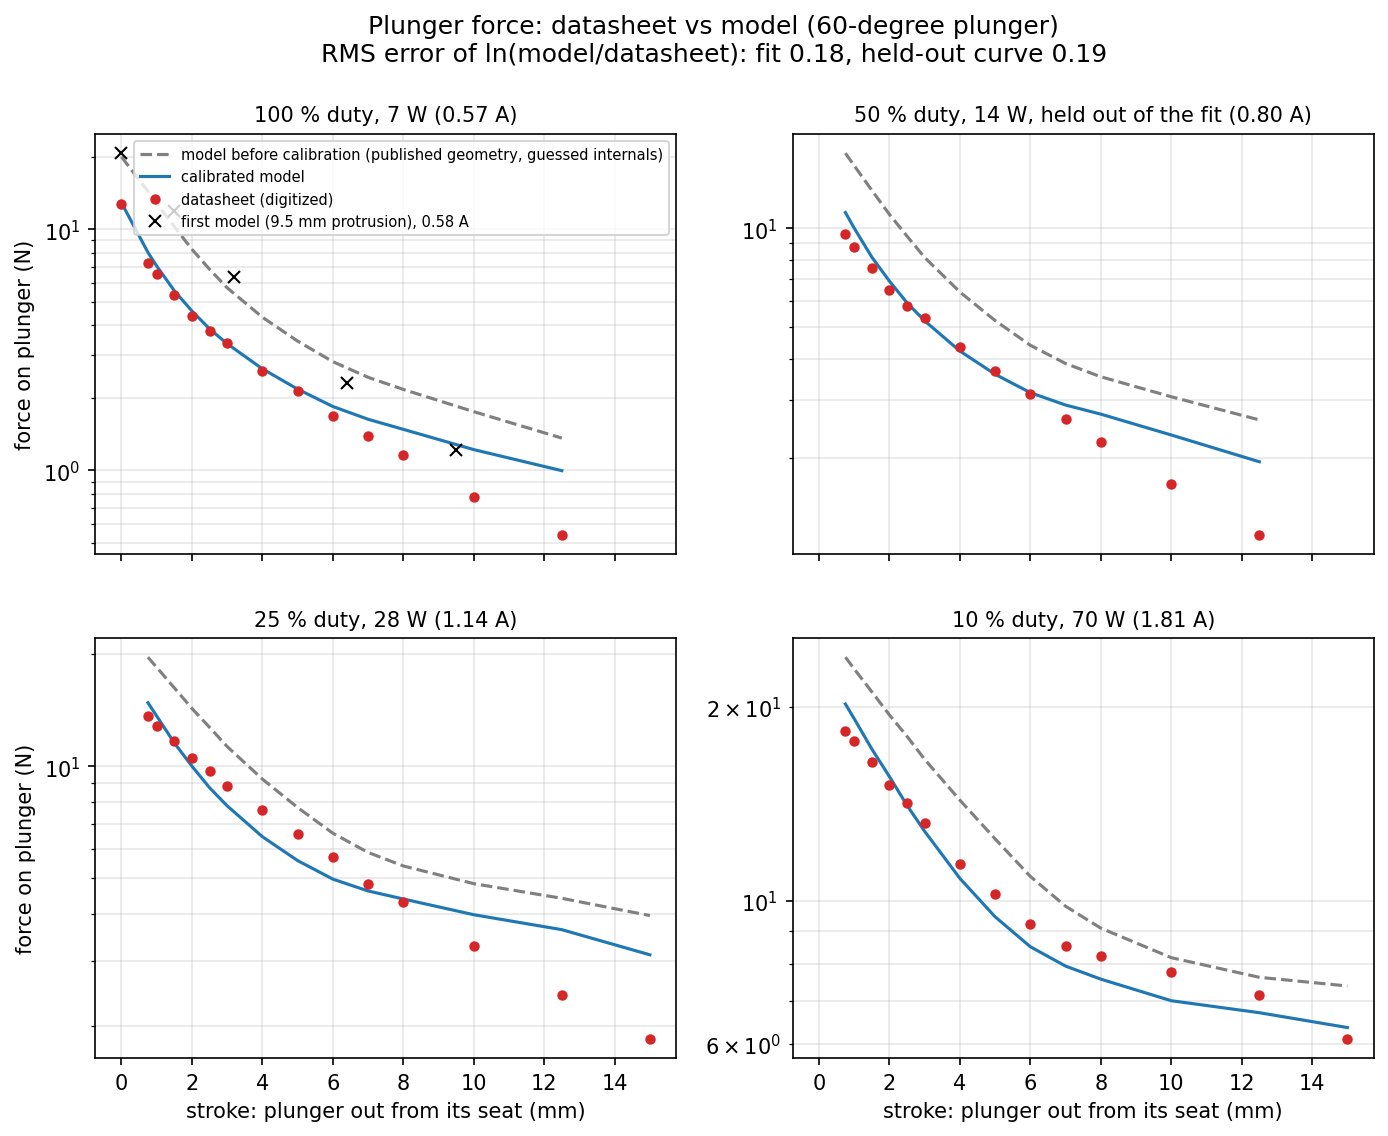
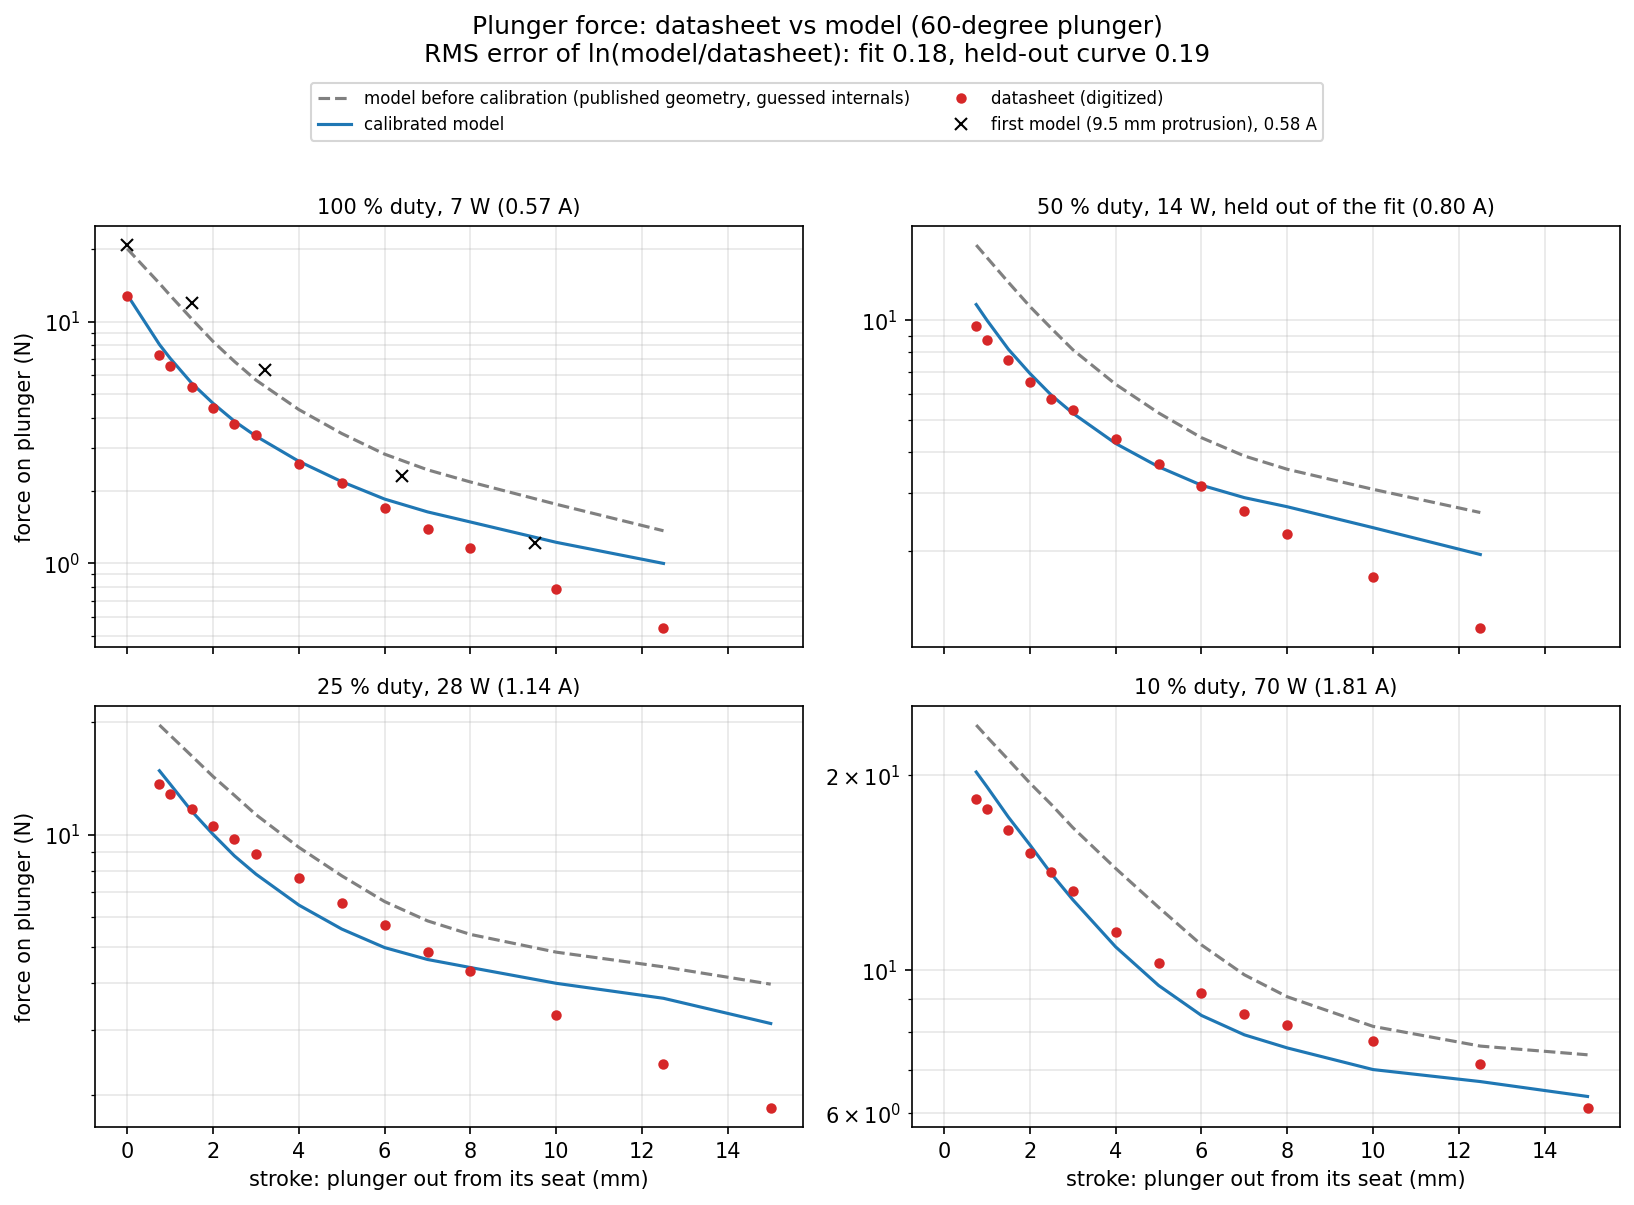
Put one shared legend above the calibration fit subplots.

diff --git a/simulations/ledex_femm/plot_results.py b/simulations/ledex_femm/plot_results.py
@@ -232,10 +232,12 @@ def plot_calibration_fit():
         ax.set_xlabel("stroke: plunger out from its seat (mm)")
     for ax in axes[:, 0]:
         ax.set_ylabel("force on plunger (N)")
-    axes[0, 0].legend(fontsize=7, loc="upper right")
+    handles, labels = axes[0, 0].get_legend_handles_labels()
     fig.suptitle("Plunger force: datasheet vs model (60-degree plunger)\n"
                  "RMS error of ln(model/datasheet): fit {:.2f}, held-out curve {:.2f}".format(
-                     best["err_fit"], best["err_holdout"]))
+                     best["err_fit"], best["err_holdout"]), y=1.0)
+    fig.legend(handles, labels, loc="upper center", bbox_to_anchor=(0.5, 0.95), ncol=2, fontsize=8, frameon=True)
+    fig.tight_layout(rect=(0, 0, 1, 0.93))
     save(fig, "calibration_fit.png")
 
 
